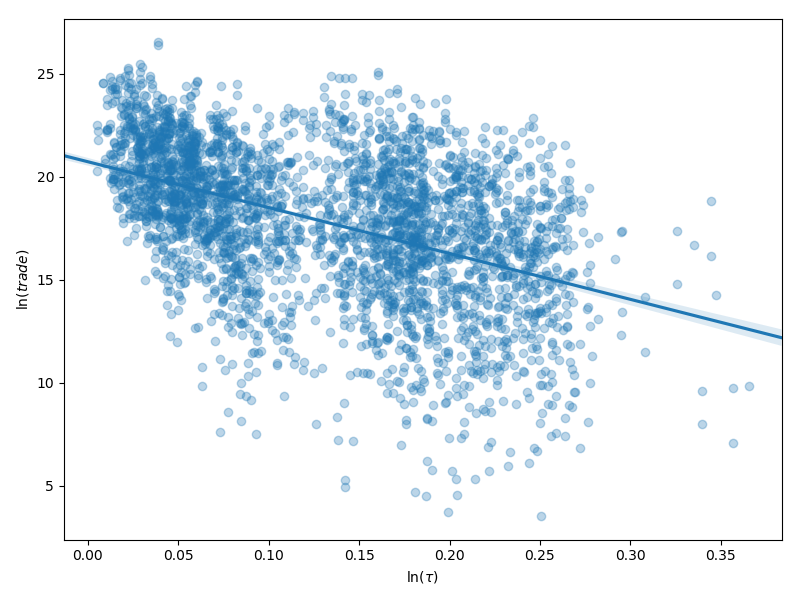
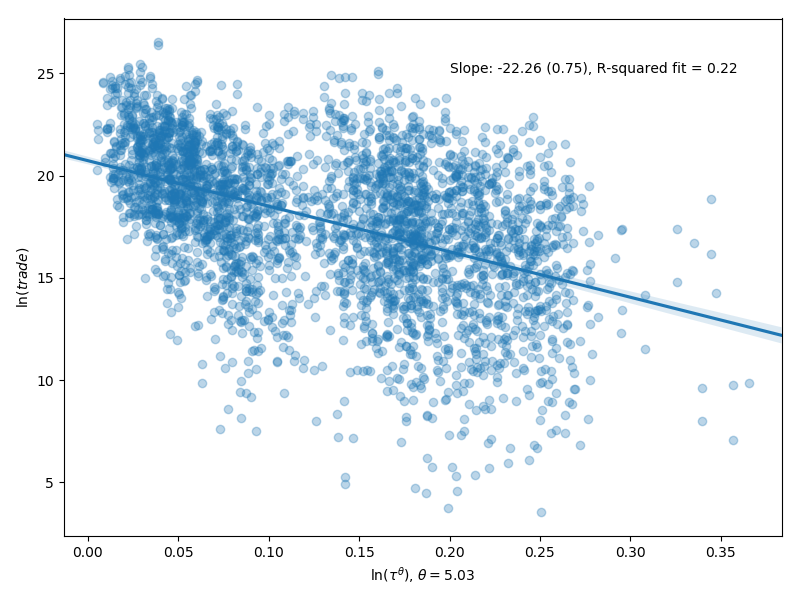
changed x label

diff --git a/code/tables_and_figures/figure_cost_vs_trade.py b/code/tables_and_figures/figure_cost_vs_trade.py
@@ -1,6 +1,7 @@
 import numpy as np
 import pandas as pd
 import seaborn as sns
+import statsmodels.api as sm
 import matplotlib.pyplot as plt
 from os import listdir
 from itertools import permutations
@@ -33,9 +34,19 @@ for pair in permutations(countries, 2):
             costs.append(np.log(transport_cost))
             trade_vals.append(np.log(trade_val))
 
+# RUN REGRESSION
+X = sm.add_constant(costs)
+y = trade_vals
+model = sm.OLS(y, X).fit()
+
 fig, ax = plt.subplots(figsize=(8, 6))
 sns.regplot(costs, trade_vals, scatter_kws={'alpha':0.3})
-ax.set_xlabel(r'$\ln(\tau)$')
+
+ax.text(0.20, 25, s='Slope: {:.2f} ({:.2f}), R-squared fit = {:.2f}'.format(model.params[1],
+                                                                            model.bse[1], 
+                                                                            model.rsquared))
+
+ax.set_xlabel(r'$\ln(\tau^{\theta})$, $\theta=5.03$')
 ax.set_ylabel(r'$\ln(trade)$')
 
 plt.tight_layout()
